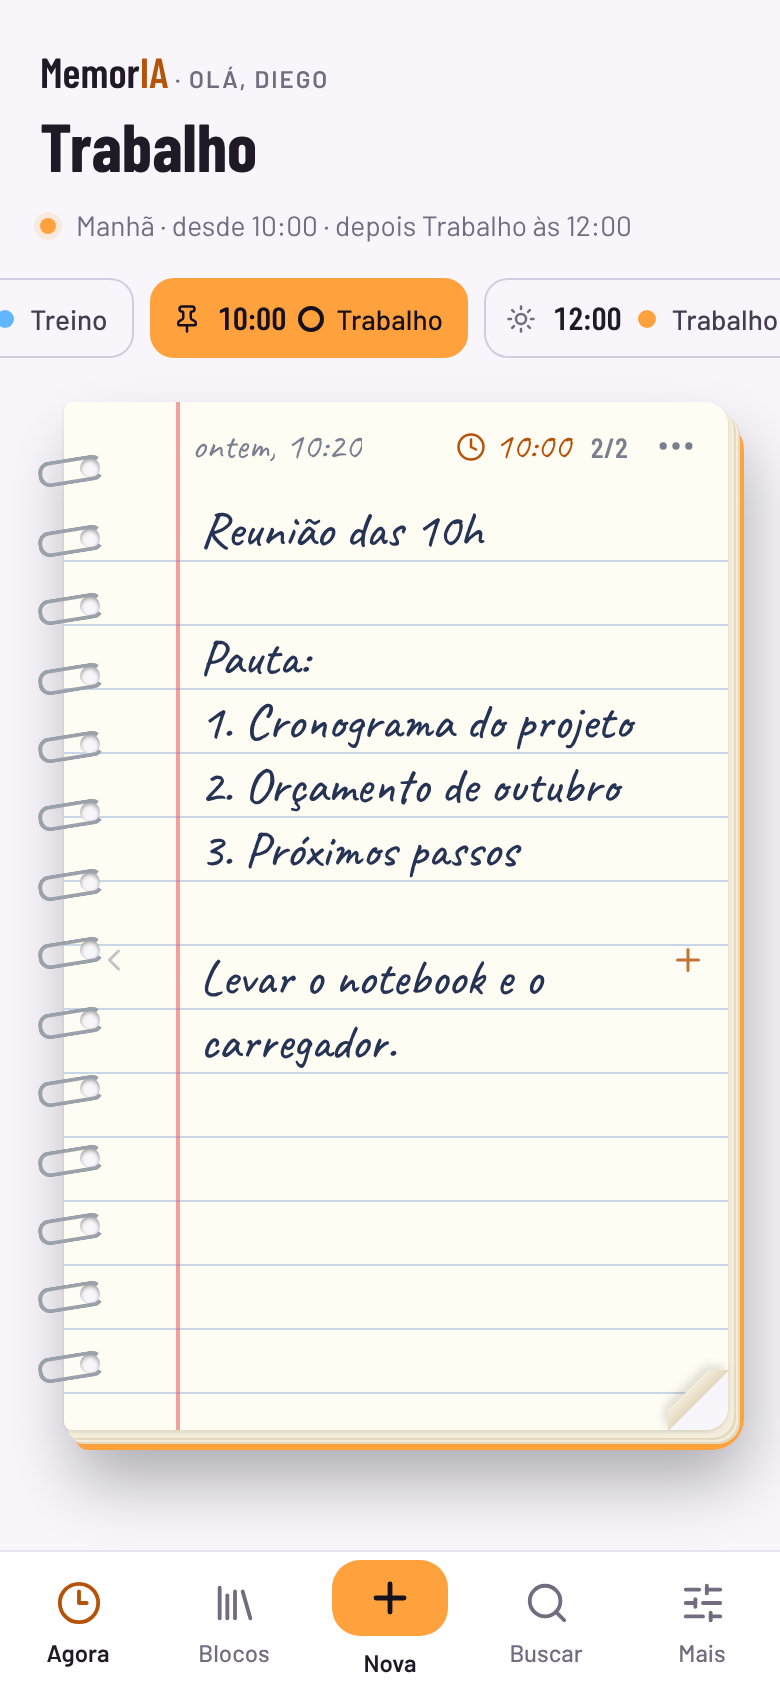
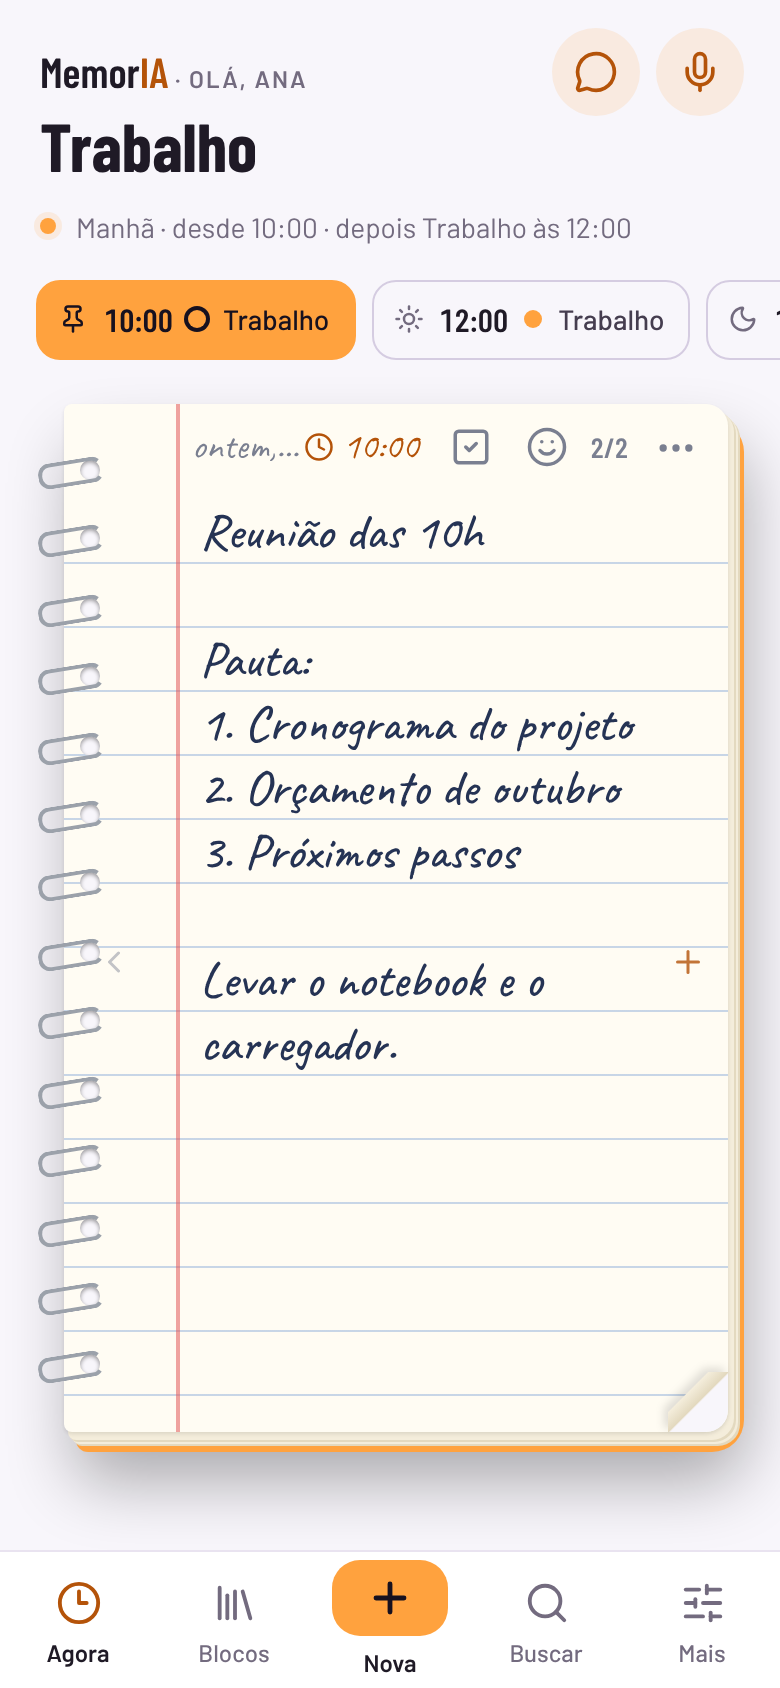
MemorIA: telas do README refeitas pela prévia (nomes inventados, o Agora novo)
tools/prints_readme.py tira agora.png, trecho.png, virar.png e blocos.png da prévia,
com a Ana da casa de exemplo.

Claude-Session: https://claude.ai/code/session_01XDBtoHhX7qQGXoLqDb8X6C

diff --git a/tools/prints_readme.py b/tools/prints_readme.py
@@ -1,0 +1,74 @@
+#!/usr/bin/env python3
+"""Refaz as imagens do README (docs/*.png) pela prévia, com a casa inventada dela (Ana usa o app).
+
+Uso: python3 tools/prints_readme.py [pasta]      (padrão: docs/; gere a prévia antes: cd frontend && npm run build)
+
+Celular 390x844 em 2x (PNG 780x1688), tema claro, cor lilás (sem a Cor do dia), relógio parado:
+agora.png (22:30, o Diário da noite), trecho.png (10:15, a pauta da reunião às 10h), virar.png (a folha virando
+para uma nova) e blocos.png (a estante).
+"""
+import functools
+import http.server
+import socketserver
+import sys
+import threading
+from datetime import datetime, timedelta, timezone
+from pathlib import Path
+
+from playwright.sync_api import sync_playwright
+
+ROOT = Path(__file__).resolve().parent.parent
+OUT = Path(sys.argv[1]) if len(sys.argv) > 1 else ROOT / "docs"
+BRT = timezone(timedelta(hours=-3))
+
+
+class Quiet(http.server.SimpleHTTPRequestHandler):
+    def log_message(self, *a):
+        pass
+
+
+def main():
+    OUT.mkdir(parents=True, exist_ok=True)
+    handler = functools.partial(Quiet, directory=str(ROOT / "preview"))
+    srv = socketserver.TCPServer(("127.0.0.1", 0), handler)
+    threading.Thread(target=srv.serve_forever, daemon=True).start()
+    url = f"http://127.0.0.1:{srv.server_address[1]}/memoria-preview.html"
+    with sync_playwright() as p:
+        b = p.chromium.launch()
+        ctx = b.new_context(viewport={"width": 390, "height": 844}, device_scale_factor=2, color_scheme="light",
+                            has_touch=True, is_mobile=True, timezone_id="America/Sao_Paulo")
+        pg = ctx.new_page()
+        pg.clock.set_fixed_time(datetime(2026, 11, 9, 22, 30, tzinfo=BRT))
+        pg.goto(url)
+        a = pg.locator("memoria-app")
+        a.locator(".page-title").first.wait_for()
+        a.evaluate("(el) => el.api.saveSettings({ app: { accent_daily: false, accent: 'lilas' } })")
+        pg.wait_for_timeout(600)
+
+        def at(h, m=0):
+            pg.clock.set_fixed_time(datetime(2026, 11, 9, h, m, tzinfo=BRT))
+            a.evaluate("(el) => { el._tick(); el._backToNow(); el.requestUpdate(); }")
+            pg.wait_for_timeout(700)
+
+        def shot(name):
+            pg.screenshot(path=str(OUT / name))
+            print(name)
+
+        at(22, 30)
+        shot("agora.png")
+        at(10, 15)
+        shot("trecho.png")
+        at(22, 30)
+        a.evaluate("(el) => el._flip(1)")
+        pg.wait_for_timeout(120)
+        shot("virar.png")
+        pg.wait_for_timeout(900)
+        a.locator("nav .tab", has_text="Blocos").click()
+        pg.wait_for_timeout(700)
+        shot("blocos.png")
+        b.close()
+    srv.shutdown()
+
+
+if __name__ == "__main__":
+    main()

diff --git a/README.md b/README.md
@@ -59,7 +59,7 @@ repository.yaml          repositório de apps
 memoria/                 o app (config, Dockerfile, servidor Node.js)
 frontend/                código-fonte da interface (Lit)
 preview/                 prévia da interface com blocos de exemplo
-docs/                    telas de exemplo do README
+docs/                    telas de exemplo do README (tools/prints_readme.py refaz pela prévia)
 dev/fake-ha.mjs          Home Assistant falso para desenvolver sem o HA
 ```
 
